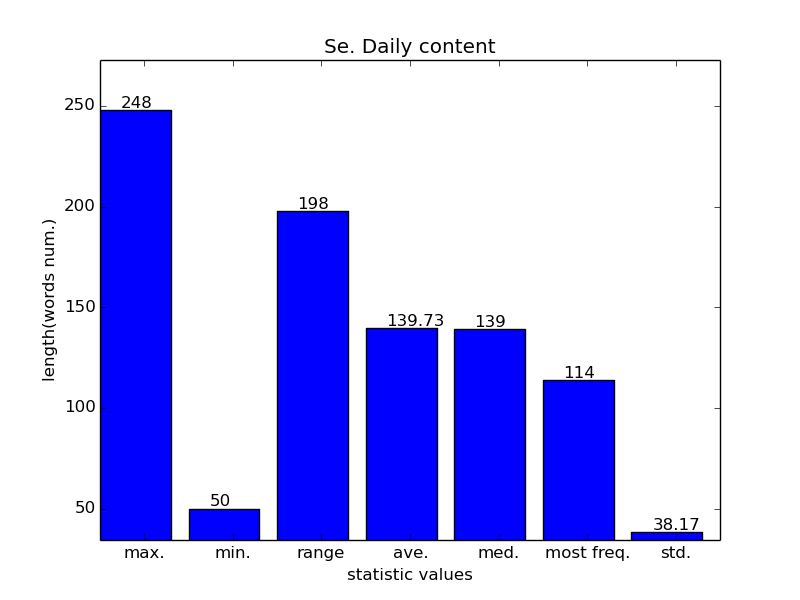
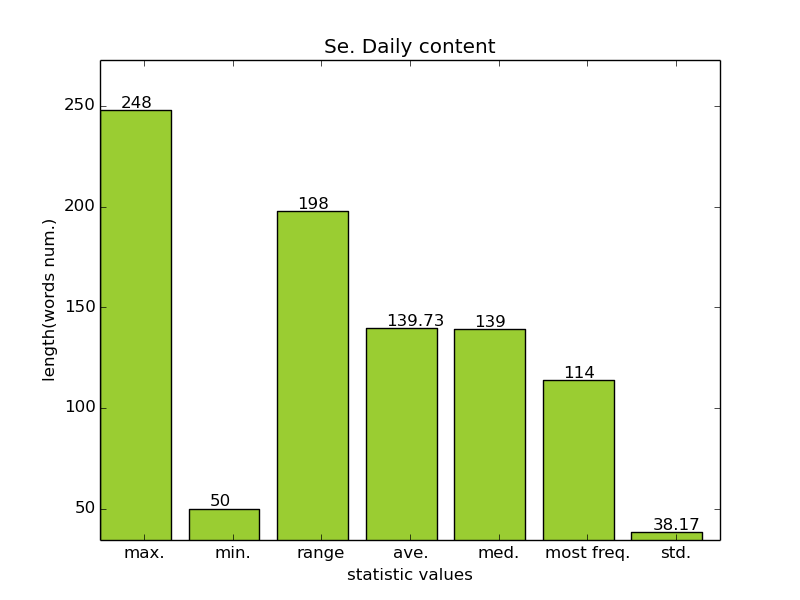
Perfected report file in format that generates by "class_newspaper_metadata.py" .

Changed region(s): [[0.125, 0.18, 0.875, 0.9]]

diff --git a/myclass/class_newspaper_metadata.py b/myclass/class_newspaper_metadata.py
@@ -15,11 +15,12 @@ __author__ = 'yuens'
 import logging
 import MySQLdb
 import time
+import datetime
 import numpy as np
 import matplotlib.pyplot as plt
 import os.path
-from matplotlib.ticker import FuncFormatter
-from compiler.ast import flatten
+#from matplotlib.ticker import FuncFormatter
+#from compiler.ast import flatten
 ################################### PART2 CLASS && FUNCTION ###########################
 class ComputeNewspaperMetaData(object):
     def __init__(self, database_name, result_save_directory):
@@ -47,6 +48,13 @@ class ComputeNewspaperMetaData(object):
             logging.error("MySQL Error %d: %s." % (e.args[0], e.args[1]))
 
         self.result_save_f = open(result_save_directory, "w")
+        self.result_save_f.write("========= Report Information =========\n")
+        self.result_save_f.write("Report Name:{name}\n".format(name = "Newspaper Metadata Information"))
+        self.result_save_f.write("Author:{name}\n".format(name = __author__))
+        self.result_save_f.write("Date:{date}\n\n".format( date =
+                                                         datetime.datetime.now().strftime("%Y-%m-%d %H:%M:%S")
+                                                        )
+                                 )
 
 
 
@@ -138,7 +146,7 @@ class ComputeNewspaperMetaData(object):
                            "securities_newspaper_zgzqb_table": u"China Se. Journal",
                            "securities_newspaper_zqrb_table": u"Se. Daily",
                            "securities_newspaper_zqsb_table": u"Se. Times",
-                           "all kinds of newspapers": u"4 Kinds of Newspapers",
+                           "all kinds of newspapers": u"4 Kinds of Sec. Newspapers",
                            "max.": u"max.",
                            "min.": u"min.",
                            "range": u"range",
@@ -150,7 +158,7 @@ class ComputeNewspaperMetaData(object):
         x = np.arange(len(table_name_list))
 
         fig, ax = plt.subplots()
-        plt.bar(x, table_record_num_list)
+        plt.bar(x, table_record_num_list, color = "yellowgreen")
         plt.xticks(x + 0.5, bar_name_list)
         plt.title(title_name + " " + title_comment)
         plt.xlabel(xlabel_name)
@@ -316,7 +324,7 @@ class ComputeNewspaperMetaData(object):
                            "securities_newspaper_zgzqb_table": u"China Se. Journal",
                            "securities_newspaper_zqrb_table": u"Se. Daily",
                            "securities_newspaper_zqsb_table": u"Se. Times",
-                           "all kinds of newspapers": u"ALL"}
+                           "all kinds of newspapers": u"4 Kinds of Newspapers"}
 
         table_name_list = [u"max.", u"min.", u"range", u"ave.", u"med.", u"most freq.", u"std."]
         table_record_num_list = [maximum, minimum, min_max_range, average, median, most_frequent_element, standard_deviation]
